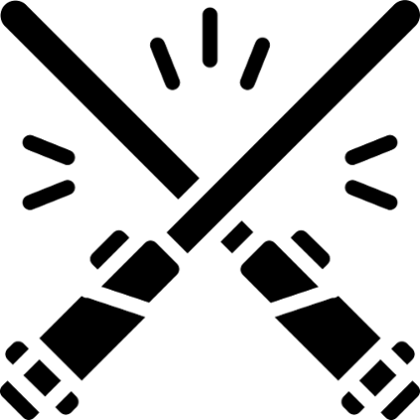
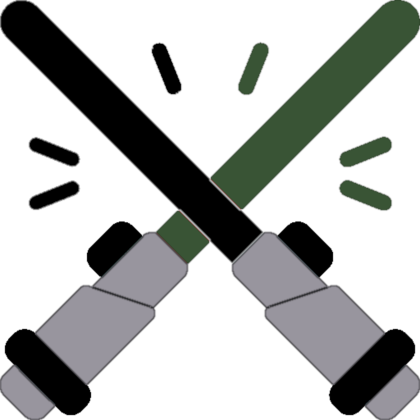
.

diff --git a/frontend/src/pages/Register/index.js b/frontend/src/pages/Register/index.js
@@ -1,14 +1,14 @@
 import React from "react";
+import { FiLogIn } from "react-icons/fi";
 
 import lightSaber from "../../assets/light-saber.png";
-import lightSaber1 from "../../assets/light-saber-1.png";
 
 import "./styles.css";
 
 export default function Register() {
   return (
     <div className="registerContainer">
-      <img src={lightSaber1} alt="Mando" />
+      <img src={lightSaber} alt="Mando" />
       <section className="form">
         <div>
           <form>
@@ -18,6 +18,10 @@ export default function Register() {
             <input type="email" placeholder="E-mail" />
             <input type="password" placeholder="Senha" />
             <button className="button">Tornar-se um Mandaloriano</button>
+            <a href="/">
+              <FiLogIn size={16} color="#395435" />
+              Já sou cadastrado
+            </a>
           </form>
         </div>
       </section>

diff --git a/frontend/src/pages/Register/styles.css b/frontend/src/pages/Register/styles.css
@@ -15,16 +15,30 @@
   margin-left: 150px;
 }
 
+.registerContainer section.form form a {
+  display: flex;
+  align-items: center;
+  margin-top: 22px;
+  text-decoration: none;
+  font-size: 18px;
+  color: #363636;
+  transition: opacity 0.2s;
+  font-weight: 500;
+}
+
+.registerContainer section.form form a:hover {
+  opacity: 0.8;
+}
+
+.registerContainer section.form form a svg {
+  margin-right: 8px;
+}
+
 .registerContainer form h1 {
   margin-bottom: 22px;
   font-size: 32px;
 }
 
 .registerContainer form input {
-  margin-bottom: 22px;
-}
-
-.registerContainer form input.checkBox {
-  height: 14px;
-  width: 14px;
+  margin-bottom: 14px;
 }

diff --git a/frontend/src/routes.js b/frontend/src/routes.js
@@ -3,6 +3,7 @@ import { BrowserRouter, Route, Switch } from "react-router-dom";
 
 import Login from "./pages/Login";
 import Register from "./pages/Register";
+import Cases from "./pages/Cases";
 
 export default function Routes() {
   return (
@@ -10,6 +11,7 @@ export default function Routes() {
       <Switch>
         <Route path="/" exact component={Login}></Route>
         <Route path="/register" component={Register}></Route>
+        <Route path="/cases" component={Cases}></Route>
       </Switch>
     </BrowserRouter>
   );

diff --git a/frontend/src/pages/Login/index.js b/frontend/src/pages/Login/index.js
@@ -3,7 +3,7 @@ import { FiLogIn } from "react-icons/fi";
 
 import "./styles.css";
 
-import mando from "../../assets/logoLogin.png";
+import logoLogin from "../../assets/logoLogin.png";
 import logoMando from "../../assets/logo.png";
 
 export default function Login() {
@@ -27,7 +27,7 @@ export default function Login() {
           </a>
         </form>
       </section>
-      <img className="imgMando" src={mando} alt="Mando" />
+      <img className="imgMando" src={logoLogin} alt="Mando" />
     </div>
   );
 }

diff --git a/frontend/src/pages/Cases/index.js b/frontend/src/pages/Cases/index.js
@@ -1,0 +1,14 @@
+import React from "react";
+
+import logoMando from "../../assets/logo.png";
+
+export default function Cases() {
+  return (
+    <div className="main">
+      <section className="menu">
+        <img src={logoMando} alt="Mando" />
+        <h1>BRUNO</h1>
+      </section>
+    </div>
+  );
+}

diff --git a/frontend/src/pages/Cases/styles.css b/frontend/src/pages/Cases/styles.css
@@ -1,0 +1,10 @@
+div.main section.menu {
+  width: 100%;
+  max-width: 1120px;
+  display: flex;
+  margin: 0 auto;
+}
+
+div.main section.menu img {
+  margin-right: 80px;
+}

diff --git a/frontend/src/pages/Login/styles.css b/frontend/src/pages/Login/styles.css
@@ -44,5 +44,5 @@
 }
 
 .login-container section.form form input.email {
-  margin-bottom: 12px;
+  margin-bottom: 18px;
 }
